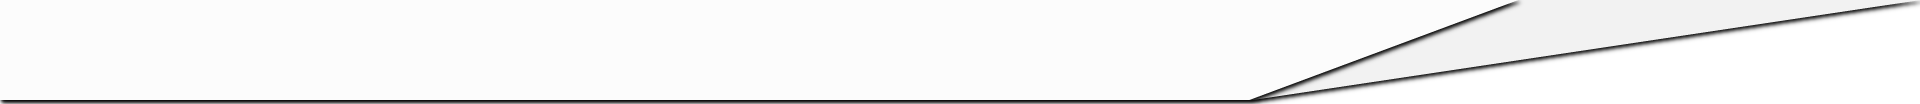
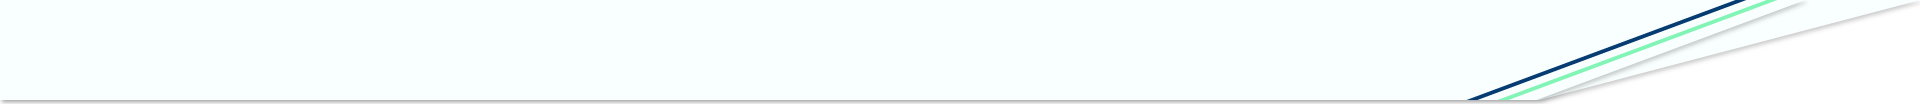
New UI for header and sidenav. nav via fragments

Changed region(s): [[0.0, 0.0, 1.0, 1.0]]

diff --git a/css/fonts.min.css b/css/fonts.min.css
@@ -1,1 +1,1 @@
-@font-face{font-family:'Roboto';src:url('../assets/fonts/roboto/bold/Roboto-Bold.eot');src:url('../assets/fonts/roboto/bold/Roboto-Bold.eot?#iefix') format('embedded-opentype'),url('../assets/fonts/roboto/bold/Roboto-Bold.woff2') format('woff2'),url('../assets/fonts/roboto/bold/Roboto-Bold.woff') format('woff'),url('../assets/fonts/roboto/bold/Roboto-Bold.ttf') format('truetype'),url('../assets/fonts/roboto/bold/Roboto-Bold.svg#Roboto-Bold') format('svg');font-weight:bold;font-style:normal;font-display:swap;}@font-face{font-family:'Roboto';src:url('../assets/fonts/roboto/light/Roboto-Light.eot');src:url('../assets/fonts/roboto/light/Roboto-Light.eot?#iefix') format('embedded-opentype'),url('../assets/fonts/roboto/light/Roboto-Light.woff2') format('woff2'),url('../assets/fonts/roboto/light/Roboto-Light.woff') format('woff'),url('../assets/fonts/roboto/light/Roboto-Light.ttf') format('truetype'),url('../assets/fonts/roboto/light/Roboto-Light.svg#Roboto-Light') format('svg');font-weight:lighter;font-style:normal;font-display:swap;}@font-face{font-family:'Roboto Slab';src:url('../assets/fonts/roboto_slab/bold/RobotoSlab-Bold.eot');src:url('../assets/fonts/roboto_slab/bold/RobotoSlab-Bold.eot?#iefix') format('embedded-opentype'),url('../assets/fonts/roboto_slab/bold/RobotoSlab-Bold.woff2') format('woff2'),url('../assets/fonts/roboto_slab/bold/RobotoSlab-Bold.woff') format('woff'),url('../assets/fonts/roboto_slab/bold/RobotoSlab-Bold.ttf') format('truetype'),url('../assets/fonts/roboto_slab/bold/RobotoSlab-Bold.svg#RobotoSlab-Bold') format('svg');font-weight:bold;font-style:normal;font-display:swap;}@font-face{font-family:'Roboto Slab';src:url('../assets/fonts/roboto_slab/light/RobotoSlab-Light.eot');src:url('../assets/fonts/roboto_slab/light/RobotoSlab-Light.eot?#iefix') format('embedded-opentype'),url('../assets/fonts/roboto_slab/light/RobotoSlab-Light.woff2') format('woff2'),url('../assets/fonts/roboto_slab/light/RobotoSlab-Light.woff') format('woff'),url('../assets/fonts/roboto_slab/light/RobotoSlab-Light.ttf') format('truetype'),url('../assets/fonts/roboto_slab/light/RobotoSlab-Light.svg#RobotoSlab-Light') format('svg');font-weight:lighter;font-style:normal;font-display:swap;}:root{font-size:62.5%}body{font-family:'Roboto Slab',sans-serif;font-size:1.4rem;font-weight:lighter;}input,select,textarea,button{font-family:inherit;}a{font-family:'Roboto Slab',sans-serif;font-weight:bold;}h1,h2,h3,h4,h5,h6{font-family:'Roboto',sans-serif;font-weight:bold;}
+@font-face{font-family:'Roboto';src:url('../assets/fonts/roboto/bold/Roboto-Bold.eot');src:url('../assets/fonts/roboto/bold/Roboto-Bold.eot?#iefix') format('embedded-opentype'),url('../assets/fonts/roboto/bold/Roboto-Bold.woff2') format('woff2'),url('../assets/fonts/roboto/bold/Roboto-Bold.woff') format('woff'),url('../assets/fonts/roboto/bold/Roboto-Bold.ttf') format('truetype'),url('../assets/fonts/roboto/bold/Roboto-Bold.svg#Roboto-Bold') format('svg');font-weight:bold;font-style:normal;font-display:swap;}@font-face{font-family:'Roboto';src:url('../assets/fonts/roboto/light/Roboto-Light.eot');src:url('../assets/fonts/roboto/light/Roboto-Light.eot?#iefix') format('embedded-opentype'),url('../assets/fonts/roboto/light/Roboto-Light.woff2') format('woff2'),url('../assets/fonts/roboto/light/Roboto-Light.woff') format('woff'),url('../assets/fonts/roboto/light/Roboto-Light.ttf') format('truetype'),url('../assets/fonts/roboto/light/Roboto-Light.svg#Roboto-Light') format('svg');font-weight:lighter;font-style:normal;font-display:swap;}@font-face{font-family:'Roboto Slab';src:url('../assets/fonts/roboto_slab/bold/RobotoSlab-Bold.eot');src:url('../assets/fonts/roboto_slab/bold/RobotoSlab-Bold.eot?#iefix') format('embedded-opentype'),url('../assets/fonts/roboto_slab/bold/RobotoSlab-Bold.woff2') format('woff2'),url('../assets/fonts/roboto_slab/bold/RobotoSlab-Bold.woff') format('woff'),url('../assets/fonts/roboto_slab/bold/RobotoSlab-Bold.ttf') format('truetype'),url('../assets/fonts/roboto_slab/bold/RobotoSlab-Bold.svg#RobotoSlab-Bold') format('svg');font-weight:bold;font-style:normal;font-display:swap;}@font-face{font-family:'Roboto Slab';src:url('../assets/fonts/roboto_slab/light/RobotoSlab-Light.eot');src:url('../assets/fonts/roboto_slab/light/RobotoSlab-Light.eot?#iefix') format('embedded-opentype'),url('../assets/fonts/roboto_slab/light/RobotoSlab-Light.woff2') format('woff2'),url('../assets/fonts/roboto_slab/light/RobotoSlab-Light.woff') format('woff'),url('../assets/fonts/roboto_slab/light/RobotoSlab-Light.ttf') format('truetype'),url('../assets/fonts/roboto_slab/light/RobotoSlab-Light.svg#RobotoSlab-Light') format('svg');font-weight:lighter;font-style:normal;font-display:swap;}:root{font-size:62.5%}body{font-family:'Roboto Slab',sans-serif;font-size:1.4rem;font-weight:lighter;}input,select,textarea,button,a{font-family:inherit;}a{font-weight:bold;text-decoration:none;}h1,h2,h3,h4,h5,h6{font-family:'Roboto',sans-serif;font-weight:bold;margin:1rem 0;}

diff --git a/css/styles.min.css b/css/styles.min.css
@@ -1,1 +1,1 @@
-html{box-sizing:border-box;}*,*:before,*:after{box-sizing:inherit;}.c-title{flex:0 0 100%;margin:0;text-align:center;}.c-main,.c-section{margin:3em auto;}.c-side{box-shadow:2px -2px 5px #000;flex-grow:0;flex-shrink:0;flex-basis:calc(100% - 80%);padding:3em 0;padding:12em 0;}.c-side__nav{position:fixed;text-align:center;width:calc(100% - 80%);}.c-content-wrap{flex:0 0 80%;padding:12em 3em;}.c-main,.c-section{display:flex;flex-wrap:wrap;justify-content:space-between;}.c-main__h,.c-section__h{flex:0 0 100%}.c-main__desc,.c-section__desc{flex:0 0 60%;}.l-main{display:flex;}.l-main__cell{width:33%;}.l-container,.l-header,.l-footer{display:flex;flex-wrap:wrap;justify-content:space-between;}.l-header,.l-footer{align-items:center;padding:2em 3em;}.l-container{margin:auto;}.l-footer{background-color:#e2e2e2;position:relative}.l-header-wrap{position:fixed;width:100%;background-color:#fcfcfc;background-image:url('/assets/ui/header.png');background-repeat:no-repeat;background-size:100% 100%;}.l-header{width:60%;}.l-header__logo{align-items:center;display:flex;font-size:2rem;margin:0;}.l-header__logo__img{width:50px;}.nav__link{padding-right:15px;}
+html{box-sizing:border-box;}*,*:before,*:after{box-sizing:inherit;}.c-title{flex:0 0 100%;text-align:center;}.c-main,.c-section{margin:3rem auto;}.l-content{flex:0 0 80%;max-width:80%;padding:12rem 6rem;}.c-main,.c-section{display:flex;flex-wrap:wrap;justify-content:space-between;}.c-main__h,.c-section__h{flex:0 0 100%}.c-main__desc,.c-section__desc{flex:0 0 60%;}.l-main{display:flex;}.l-main__cell{width:33%;}.l-side{background-color:#f8fffe;box-shadow:-2px 2px 5px #CCC;flex-grow:0;flex-shrink:0;flex-basis:calc(100% - 80%);max-width:20%}.c-side{padding:12rem 1rem;position:fixed;width:20%;}.c-side_section{position:relative;z-index:1;}.l-container,.l-header,.l-footer{display:flex;flex-wrap:wrap;justify-content:space-between;}.l-header,.l-footer{align-items:center;padding:1rem 6rem;}.l-container{margin:auto;min-height:calc(100vh - 120px);}.l-footer{background-image:url('/assets/ui/footer.png');background-repeat:no-repeat;background-size:100% 100%;height:120px;position:relative}.l-header-wrap{position:fixed;width:100%;background-image:url('/assets/ui/header.png');background-repeat:no-repeat;background-size:100% 100%;}.l-header{padding:.5rem 6rem;width:80%;}.l-header__logo{align-items:center;display:flex;font-size:2rem;margin:0;}.l-header__logo__img{width:7rem;}.nav__link{padding-right:15px;}

diff --git a/css/styles.css b/css/styles.css
@@ -14,33 +14,18 @@ html {
 
 .c-title {
   flex: 0 0 100%; /* Fills the entire space horizontally */
-  margin: 0;
   text-align: center;
 }
 
 .c-main,
 .c-section {
-  margin: 3em auto;
+  margin: 3rem auto;
 }
 
-.c-side {
-  box-shadow: 2px -2px 5px #000;
-  flex-grow: 0;
-  flex-shrink: 0;
-  flex-basis: calc(100% - 80%); /* We separate for IE */
-  padding: 3em 0;
-  padding: 12em 0;
-}
-
-.c-side__nav {
-  position: fixed;
-  text-align: center;
-  width: calc(100% - 80%);
-}
-
-.c-content-wrap {
+.l-content {
   flex: 0 0 80%;
-  padding: 12em 3em;
+  max-width: 80%; /* For IE */
+  padding: 12rem 6rem;
 }
 
 .c-main,
@@ -68,6 +53,52 @@ html {
   width: 33%;
 }
 
+.l-side {
+  background-color: #f8fffe;
+  box-shadow: -2px 2px 5px #CCC;
+  flex-grow: 0;
+  flex-shrink: 0;
+  flex-basis: calc(100% - 80%); /* We separate for IE */
+  max-width: 20%; /* For IE */
+}
+
+.c-side {
+  padding: 12rem 1rem;
+  position: fixed;
+  width: 20%;
+}
+
+.c-side_section {
+  position: relative;
+  z-index: 1;
+}
+
+/*.c-side__nav {
+  padding: 0 2rem;
+  position: absolute;
+  top: 20%;
+  z-index: 1;
+}*/
+
+/*.c-side {
+  position: fixed;
+  width: 5rem;
+  min-width: 200px;
+  background-image: url(/assets/ui/sidebar.png);
+  background-repeat: no-repeat;
+  background-size: 100% 400px;
+  height: 400px;
+  right: -1rem;
+  z-index: -1;
+}
+
+.c-side__nav {
+  padding: 0 2rem;
+  position: absolute;
+  top: 20%;
+  z-index: 1;
+}*/
+
 /* Layout */
 
 .l-container,
@@ -81,15 +112,19 @@ html {
 .l-header,
 .l-footer {
   align-items: center;
-  padding: 2em 3em;
+  padding: 1rem 6rem;
 }
 
 .l-container {
   margin: auto;
+  min-height: calc(100vh - 120px);
 }
 
 .l-footer {
-  background-color: #e2e2e2;
+  background-image: url('/assets/ui/footer.png');
+  background-repeat: no-repeat;
+  background-size: 100% 100%;
+  height: 120px;
   position: relative; /* avoid side bar from overlaping */
 }
 
@@ -97,14 +132,14 @@ html {
   /*filter: drop-shadow(0px 2px 5px #000);*/
   position: fixed;
   width: 100%;
-  background-color: #fcfcfc;
   background-image: url('/assets/ui/header.png');
   background-repeat: no-repeat;
   background-size: 100% 100%;
 }
 
 .l-header {
-  width: 60%;
+  padding: 0.5rem 6rem;
+  width: 80%;
 }
 
 
@@ -131,7 +166,7 @@ html {
 }
 
 .l-header__logo__img {
-  width: 50px;
+  width: 7rem;
 }
 
 .nav__link {

diff --git a/pages/projects/fuse/index.js b/pages/projects/fuse/index.js
@@ -1,38 +1,18 @@
-(function (global, factory) {
-  if (typeof define === "function" && define.amd) {
-    define([], factory);
-  } else if (typeof exports !== "undefined") {
-    factory();
+/**
+ * CONTROLLER FOR:
+ * FUSE PROJECT PAGE
+ * 
+ * This script will replace the previous page's controller thanks to getPageController method in router module
+ */
+
+new Promise((resolve, reject) => {
+  if (document.getElementById('sidenav')) {
+    moduleNav.buildNavProject(document.getElementById('sidenav')) // Build the sidenav
+    resolve(); // Detect the links and build their navigation listener
   } else {
-    var mod = {
-      exports: {}
-    };
-    factory();
-    global.repl = mod.exports;
+    // Will listen to the links across the page in all cases
+    reject('Sidenav element does not exist')
   }
-})(typeof globalThis !== "undefined" ? globalThis : typeof self !== "undefined" ? self : this, function () {
-  "use strict";
-
-  /**
-   * CONTROLLER FOR:
-   * FUSE PROJECT PAGE
-   * 
-   * This script will replace the previous page's controller thanks to getPageController method in router module
-   */
-  new Promise(function (resolve, reject) {
-    if (document.getElementById('sidenav')) {
-      moduleNav.buildNavProject(document.getElementById('sidenav')); // Build the sidenav
-
-      resolve(); // Detect the links and build their navigation listener
-    } else {
-      // Will listen to the links across the page in all cases
-      reject('Sidenav element does not exist');
-    }
-  }).finally(function () {
-    return moduleRouter.linksListener('js-link--content');
-  }).then(function (result) {
-    return moduleRouter.hashListener('js-link--hash');
-  }, function (err) {
-    return console.error('error:', err);
-  });
-});
+})
+.finally(() => moduleRouter.linksListener('js-link--content'))
+.then(result => moduleRouter.hashListener('js-link--hash'), err => console.error('error:', err))

diff --git a/pages/projects/fuse/index.html b/pages/projects/fuse/index.html
@@ -1,8 +1,4 @@
-<div class="c-side">
-  <nav id="sidenav" class="c-side__nav"></nav>
-</div>
-
-<div class="c-content-wrap">
+<div id="content" class="l-content">
   <h2 class="c-title">Fuse Universal: How to save a product</h2>
 
   <main id="specifics" class="c-main">
@@ -56,7 +52,7 @@
         You probably see from a mile away all the complications this setup can bring upon.
       </p>
       <ul>
-        <li>Design inconsistencies due to a heavy history and lack of collaboration and several accessibility issues.</li>
+        <li>There were many design inconsistencies and accessibility flaws due to the absence of community of practices and cross-department collaboration in the past.</li>
         <li>No tracable history. There was no way to distinguish if a broken functionality was due to a bug or a change made by the client or what the client signed off for regarding old projects.</li>
         <li>The overreliance on custom widgets (as micro-frontends) and untested overrides (such as embedding the client's font) could impact performance and accessibility.</li>
         <li>Different practices from developer to developer and from designer to designer leading to many abuses of grey areas.</li>
@@ -116,3 +112,18 @@
   </section>
 
 </div>
+
+<aside class="l-side">
+  <div class="c-side">
+    <section class="c-side_section">
+      <h2>Skip to:</h2>
+      <nav id="sidenav" class="c-side__nav"></nav>
+    </section>
+    <section class="c-side_section">
+      <h2>Related skills:</h2>
+    </section>
+    <section class="c-side_section">
+      <h2>Related contents:</h2>
+    </section>
+  </div>
+</aside>

diff --git a/pages/projects/fuse/index.min.js b/pages/projects/fuse/index.min.js
@@ -1,1 +1,1 @@
-!function(e,n){if("function"==typeof define&&define.amd)define([],n);else if("undefined"!=typeof exports)n();else{n(),e.repl={}}}("undefined"!=typeof globalThis?globalThis:"undefined"!=typeof self?self:this,(function(){"use strict";new Promise((function(e,n){document.getElementById("sidenav")?(moduleNav.buildNavProject(document.getElementById("sidenav")),e()):n("Sidenav element does not exist")})).finally((function(){return moduleRouter.linksListener("js-link--content")})).then((function(e){return moduleRouter.hashListener("js-link--hash")}),(function(e){}))}));
+new Promise(((e,n)=>{document.getElementById("sidenav")?(moduleNav.buildNavProject(document.getElementById("sidenav")),e()):n("Sidenav element does not exist")})).finally((()=>moduleRouter.linksListener("js-link--content"))).then((e=>moduleRouter.hashListener("js-link--hash")),(e=>{}));

diff --git a/css/themes.css b/css/themes.css
@@ -1,0 +1,28 @@
+body {
+  background-color: #f0f7f6;
+  color: #5f5e5e;
+}
+
+input,
+select,
+textarea,
+button,
+a,
+a:visited {
+  color: #063C72;
+}
+
+a:hover {
+  background-color: #063C72;
+  color: #82F4B6;
+}
+
+h1, h2, h3, h4, h5, h6 {
+  color: #063C72;
+}
+
+.l-footer__nav a {
+  color: #82F4B6;
+}
+
+.l-footer__nav a:hover {}

diff --git a/css/fonts.css b/css/fonts.css
@@ -67,16 +67,18 @@ body {
 input,
 select,
 textarea,
-button {
+button,
+a {
   font-family: inherit;
 }
 
 a {
-  font-family: 'Roboto Slab', sans-serif;
   font-weight: bold;
+  text-decoration: none;
 }
 
 h1, h2, h3, h4, h5, h6 {
   font-family: 'Roboto', sans-serif;
   font-weight: bold;
+  margin: 1rem 0;
 }

diff --git a/css/themes.min.css b/css/themes.min.css
@@ -1,0 +1,1 @@
+body{background-color:#f0f7f6;color:#5f5e5e;}input,select,textarea,button,a,a:visited{color:#063C72;}a:hover{background-color:#063C72;color:#82F4B6;}h1,h2,h3,h4,h5,h6{color:#063C72;}.l-footer__nav a{color:#82F4B6;}.l-footer__nav a:hover{}
